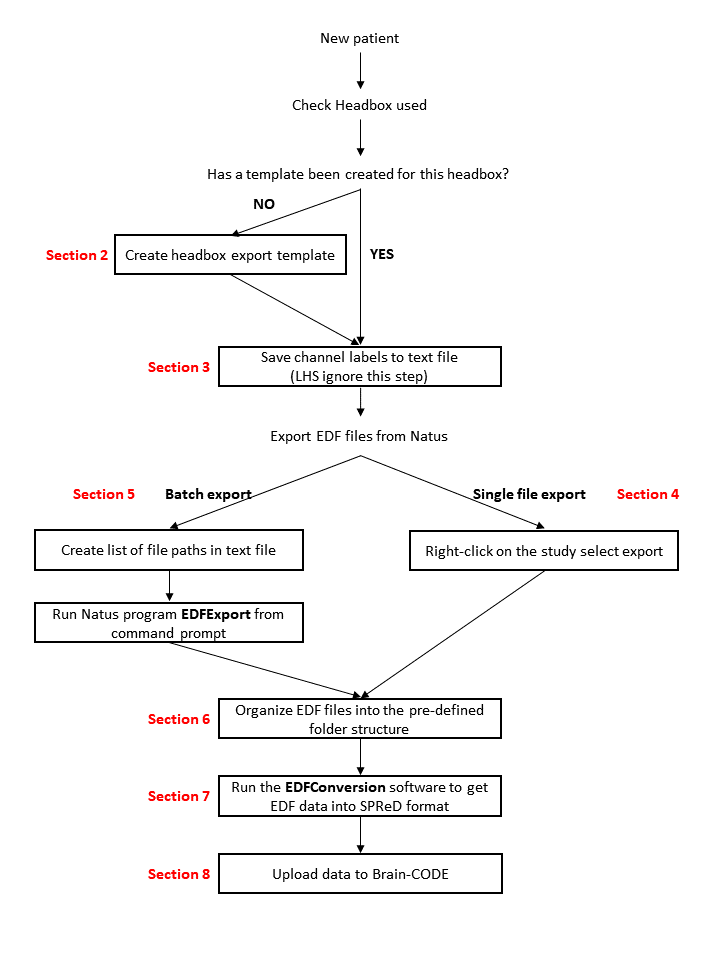
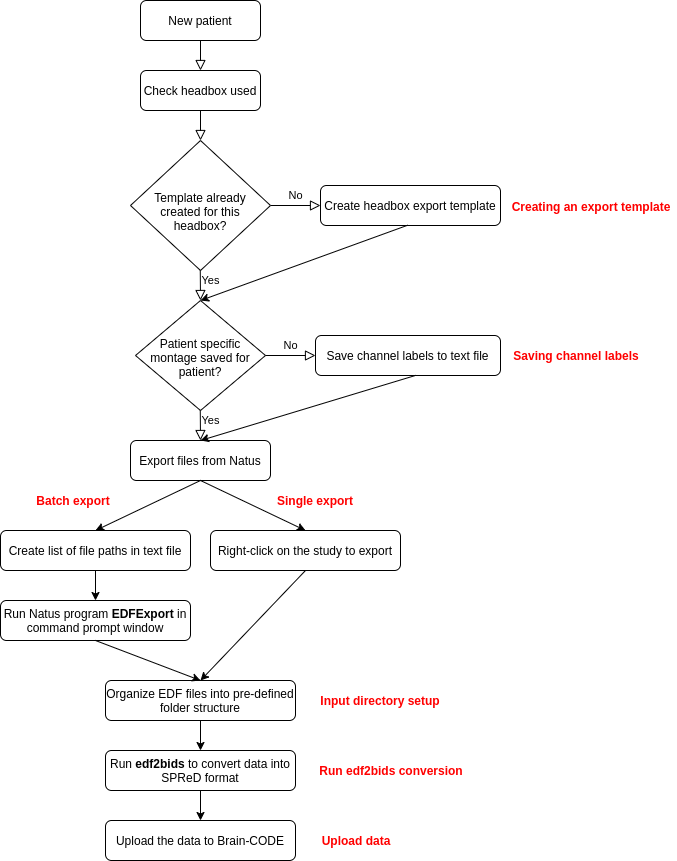
update diagram

diff --git a/docs/getting_started/02_definitions.md b/docs/getting_started/02_definitions.md
@@ -17,7 +17,7 @@ Throughout this documentation the following filename terms will be used:
 | `ses_num` | each day spent in hospital during the visit (2 digits starting with SE, ex. SE01) |
 | `type` | type of data collected (should be _IEEG/_EEG) |
 | `task` | format of the edf data (should be _CLIP/_FULL/_CS) |
-| `RET` [optional] | indicates the study is retrospective <sup>1</sup> |
+| `RET`  | if included, indicates the study is retrospective <sup>1</sup> |
 
 </center>
 

diff --git a/docs/getting_started/09_spred_upload.md b/docs/getting_started/09_spred_upload.md
@@ -57,7 +57,7 @@ template: overrides/main.html
 
 	<center><img src="../img/spred_11.png" alt="drawing" style="width:80%;"/></center><br>
 
-13. There will be another box that pops up asking you would like to extract the contents of the archive, click **OK**.
+13. There will be another box that pops up asking you would like to extract the contents of the archive, click **Cancel**.
 
 	<center><img src="../img/spred_12.png" alt="drawing" style="width:80%;"/></center><br>
 

diff --git a/docs/getting_started/06_edf2bids_settings.md b/docs/getting_started/06_edf2bids_settings.md
@@ -1,10 +1,12 @@
 ---
 template: overrides/main.html
+title: edf2bids Settings
 ---
 
-# edf2bids Settings
-
 ## Adjusting metadata settings
+
+!!! note
+    You will only need to modify these settings once upon initial installation of the edf2bids software
 
 1. In the **edf2bids** software, select **File** then **Settings**.
 

diff --git a/docs/getting_started/01_overview.md b/docs/getting_started/01_overview.md
@@ -23,7 +23,7 @@ The following steps should be taken sequentially:
 
 ## EpLink Study Workflow
 
-<center><img src="../img/workflow.png" alt="drawing"/></center>
+<center><img src="../img/workflow.svg" alt="drawing"/></center>
 
 <br>
 <br>
